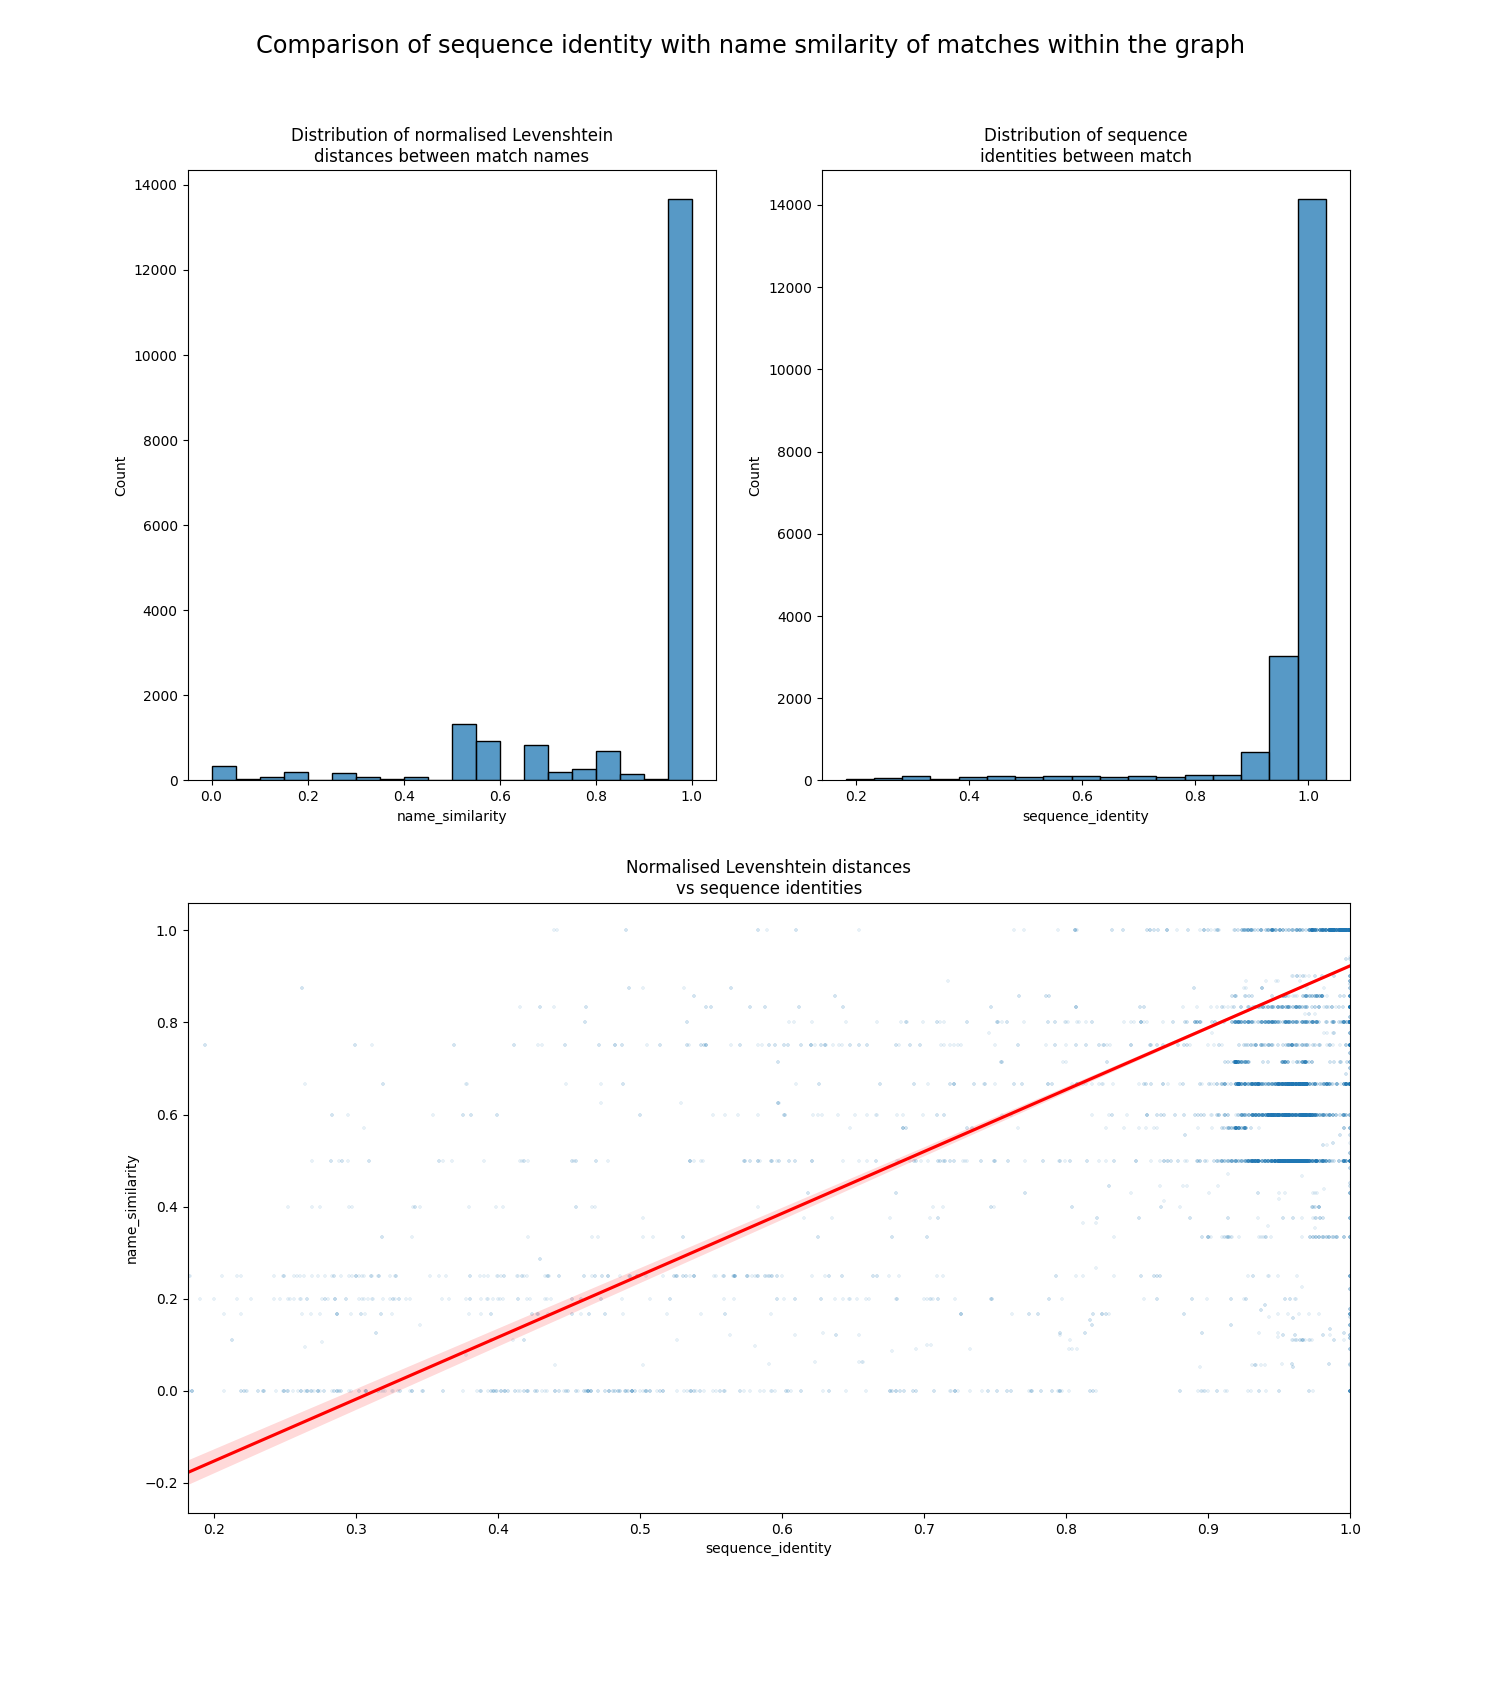
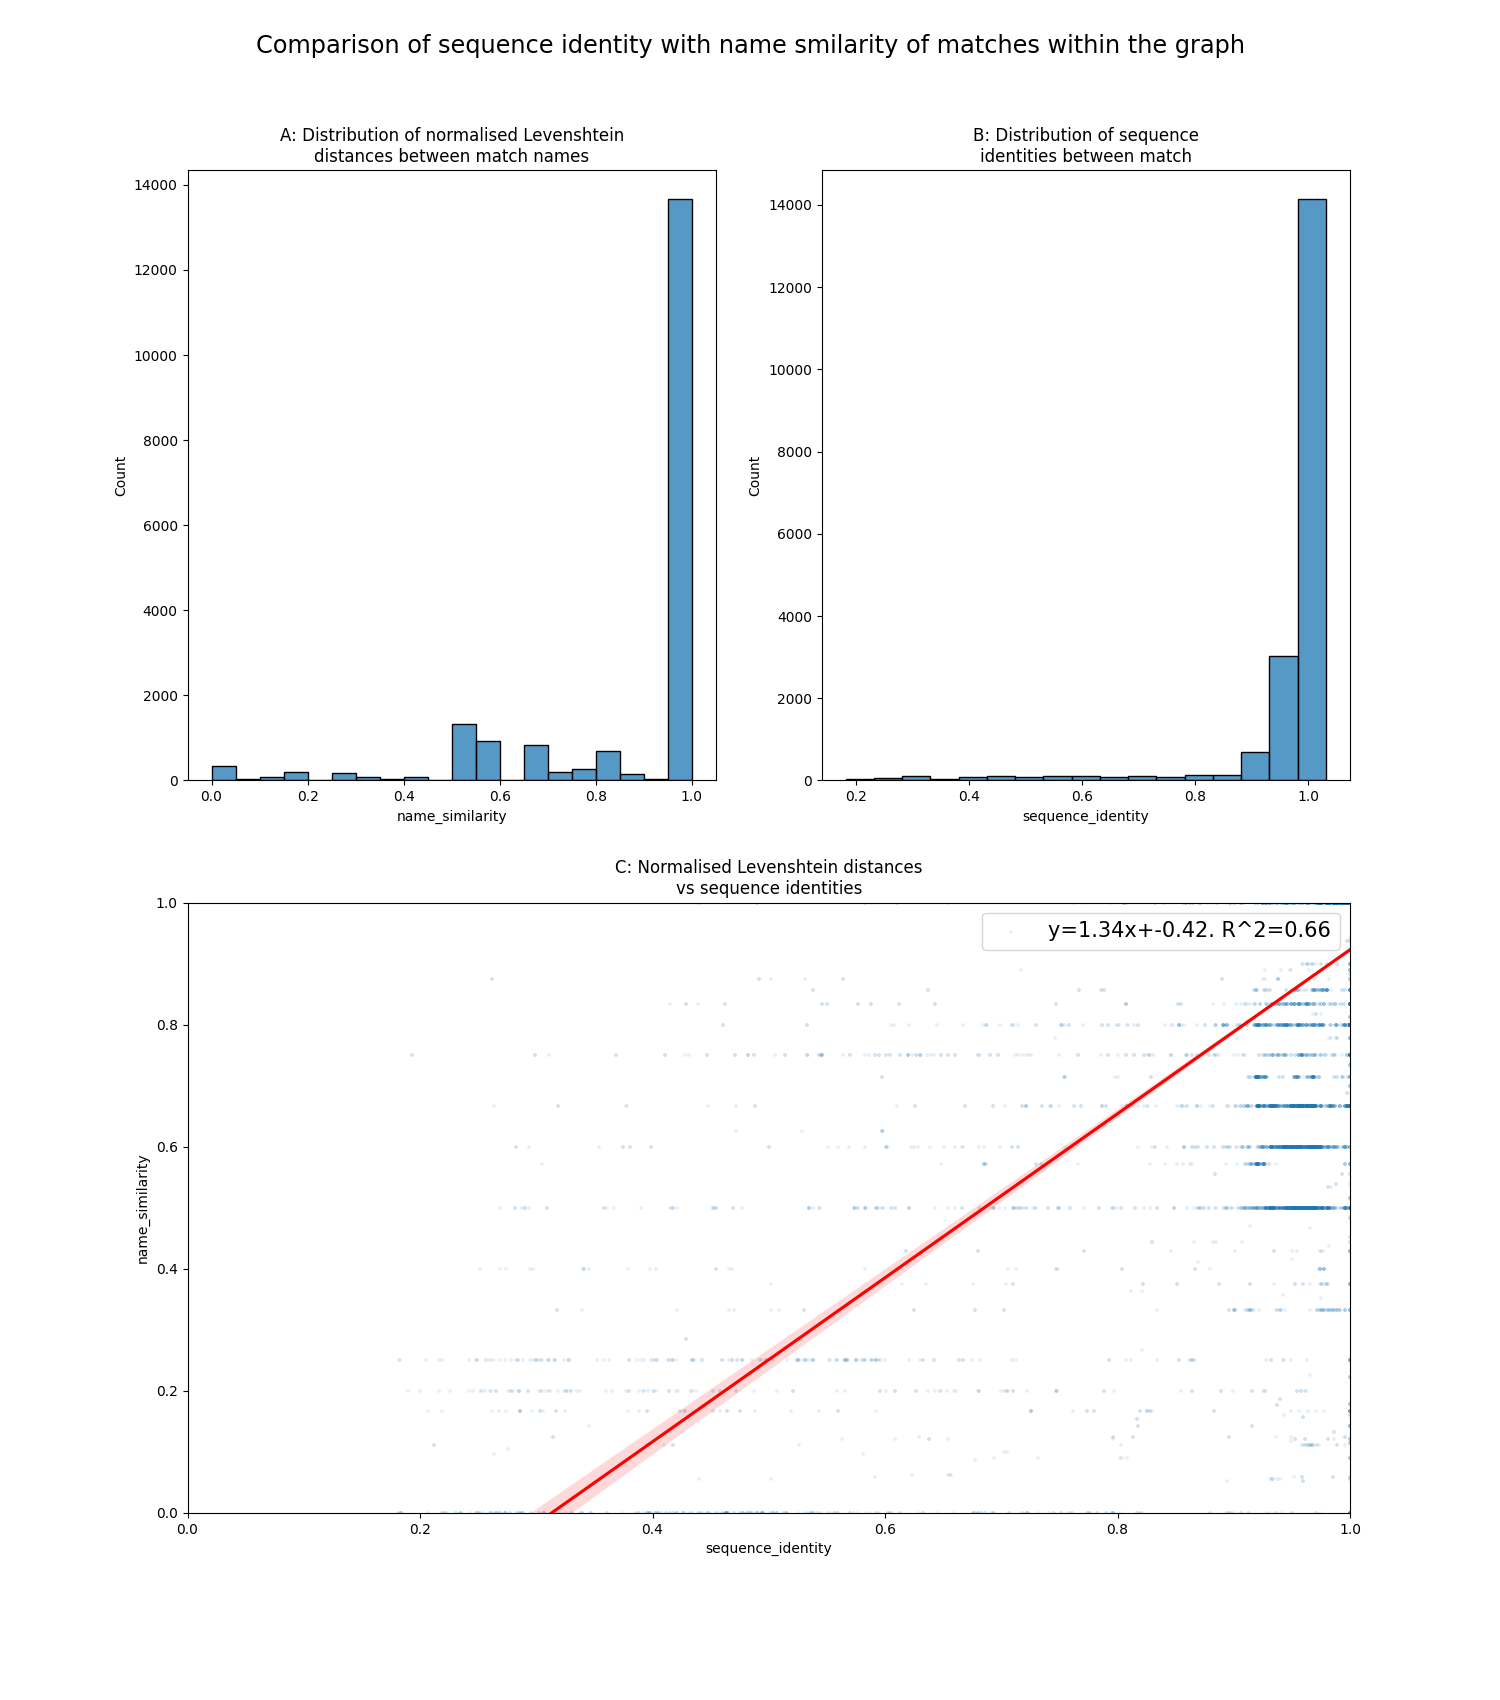
update README and plots

diff --git a/scripts/assess_matches.py b/scripts/assess_matches.py
@@ -1,6 +1,7 @@
 import os
 import json
 import re
+from scipy import stats
 
 import networkx as nx
 from networkx.readwrite import json_graph
@@ -209,7 +210,7 @@ fig.suptitle(
     fontsize='xx-large'
 )
 distance_distribution_plot_ax=plt.subplot2grid((2, 2), (0, 0), rowspan=1, colspan=1)
-distance_distribution_plot_ax.set_title('Distribution of normalised Levenshtein\ndistances between match names')
+distance_distribution_plot_ax.set_title('A: Distribution of normalised Levenshtein\ndistances between match names')
 
 distance_distribution_plot=sns.histplot(
     ax=distance_distribution_plot_ax,
@@ -219,7 +220,7 @@ distance_distribution_plot=sns.histplot(
 )
 
 identity_distribution_plot_ax=plt.subplot2grid((2, 2), (0, 1), rowspan=1, colspan=1)
-identity_distribution_plot_ax.set_title('Distribution of sequence\nidentities between match')
+identity_distribution_plot_ax.set_title('B: Distribution of sequence\nidentities between match')
 
 identity_distribution_plot=sns.histplot(
     ax=identity_distribution_plot_ax,
@@ -227,8 +228,12 @@ identity_distribution_plot=sns.histplot(
     data=distance_dataframe,
     binwidth=0.05
 )
+
+# get coeffs of linear fit
+slope, intercept, r_value, p_value, std_err = stats.linregress(distance_dataframe['sequence_identity'],distance_dataframe['name_similarity'])
+
 identity_vs_distance_plot_ax=plt.subplot2grid((2, 2), (1, 0), rowspan=1, colspan=2)
-identity_vs_distance_plot_ax.set_title('Normalised Levenshtein distances\nvs sequence identities')
+identity_vs_distance_plot_ax.set_title('C: Normalised Levenshtein distances\nvs sequence identities')
 
 identity_vs_distance_plot=sns.regplot(
     ax=identity_vs_distance_plot_ax,
@@ -236,8 +241,12 @@ identity_vs_distance_plot=sns.regplot(
     y="name_similarity",
     scatter_kws={"s": 10, 'alpha': 0.1},
     line_kws={"color": "red"},
+    label="y={0:.2f}x+{1:.2f}. R^2={2:.2f}".format(slope,intercept,r_value),
     data=distance_dataframe,
-    marker="+")
+    marker="+").legend(loc="best", fontsize=15)
+
+identity_vs_distance_plot_ax.set_xlim(0,1)
+identity_vs_distance_plot_ax.set_ylim(0,1)
 
 figure_path=os.path.join(
     os.path.dirname(os.path.abspath(__file__)),
@@ -254,7 +263,7 @@ fig.suptitle(
 )
 ########## violin plot 1 ###############
 name_similarity_plot_ax=plt.subplot2grid((2, 4), (0, 0), rowspan=1, colspan=2)
-name_similarity_plot_ax.set_title(f'Dist of name similarities including alleles\nfrom matches with >= 0.95 id')
+name_similarity_plot_ax.set_title(f'A: Dist of name similarities including alleles\nfrom matches with >= 0.95 id')
 
 sns.boxplot(
     ax=name_similarity_plot_ax,
@@ -273,7 +282,7 @@ sns.violinplot(
 
 ########## violin plot 2 ###############
 name_similarity_wo_alleles_plot_ax=plt.subplot2grid((2, 4), (0, 2), rowspan=1, colspan=2)
-name_similarity_wo_alleles_plot_ax.set_title(f'Dist of name similarities without alleles\nfrom matches with >= 0.95 id')
+name_similarity_wo_alleles_plot_ax.set_title(f'B: Dist of name similarities without alleles\nfrom matches with >= 0.95 id')
 
 sns.boxplot(
     ax=name_similarity_wo_alleles_plot_ax,
@@ -292,9 +301,9 @@ sns.violinplot(
 ########## violin plot 3 ###############
 similarity_difference_plot_ax=plt.subplot2grid((2, 4), (1, 0), rowspan=1, colspan=1)
 similarity_difference_plot_ax.set_title(
-f"""Dist of differences from linear regression
-predictions including alleles
-from matches with >= 0.95 id""")
+f"""C: Dist of differences from 
+linear regression predictions incl 
+alleles from matches with >= 0.95 id""")
 
 sns.boxplot(
     ax=similarity_difference_plot_ax,
@@ -314,8 +323,8 @@ sns.violinplot(
 ########## violin plot 4 ###############
 low_similarity_difference_plot_ax=plt.subplot2grid((2, 4), (1, 1), rowspan=1, colspan=1)
 low_similarity_difference_plot_ax.set_title(
-f"""Dist of differences from linear regression
-predictions including alleles from matches
+f"""D: Dist of differences from linear 
+regr. predictions incl. alleles from matches 
 with >= 0.95 id + name similarity <= {round(predicted_name_similarity,2)}""")
 
 sns.boxplot(
@@ -336,9 +345,9 @@ sns.violinplot(
 ########## violin plot 5 ###############
 similarity_difference_wo_alleles_plot_ax=plt.subplot2grid((2, 4), (1, 2), rowspan=1, colspan=1)
 similarity_difference_wo_alleles_plot_ax.set_title(
-f"""Dist of differences from linear regression
-predictions without alleles
-from matches with >= 0.95 id"""
+f"""E: Dist of differences from linear 
+regr. predictions without 
+alleles from matches with >= 0.95 id"""
 )
 
 sns.boxplot(
@@ -359,7 +368,7 @@ sns.violinplot(
 ########## violin plot 6 ###############
 low_similarity_difference_wo_alleles_plot_ax=plt.subplot2grid((2, 4), (1, 3), rowspan=1, colspan=1)
 low_similarity_difference_wo_alleles_plot_ax.set_title(
-f"""Dist of differences from linear regression
+f"""F: Dist of differences from linear regr.
 predictions without alleles from matches
 with >= 0.95 id + name similarity <= {round(predicted_name_similarity_without_alleles,2)}"""
 )

diff --git a/README.md b/README.md
@@ -1,43 +1,46 @@
-# CharmeDb 
+# CharmeDb
+
 ![CharmeDb](docs/images/CharmeDb.png)  
 (pronounced 'charmed' `/tʃɑː(r)md/`)
   
-
-
 Previously known as Project ![mAMRite](docs/images/mAMRite_small.png)  
 
 (Abandoned for obvious trademark issues and the fact that the joke may be lost on non-Brits)  
 
 ## Introduction
+
 This project originated from the dilema a scientist faces when choosing a database that stores antimicrobial resistance determinants. Multiple databases exist with comparative strengths and weaknesses. This project builds on the concepts of the [haAMRonization](https://github.com/pha4ge/hAMRonization) project aiming to aggeregate and combine the information contained within the metadata associated with each project. The problem is exacerbated by the fact that the equivalent antimicrobial resistance genes (ARGs) can be named differently in each database.
 
 The hypothesis for the project is as follows:  
- * given a match in one database
- * find the matches in other databases
- * aggregate the combined desriptive information pertaining to antimicrobial resistance contained in the union of the metadata
- * report this to user for them to make intelligent informed choices
+
+* given a match in one database
+* find the matches in other databases
+* aggregate the combined desriptive information pertaining to antimicrobial resistance contained in the union of the metadata
+* report this to user for them to make intelligent informed choices
 
 ## Methodology
- * Download sequences and associated metadata of ARGs from 3 databases
-   * [CARD](https://card.mcmaster.ca/) ([Manuscript](http://www.ncbi.nlm.nih.gov/pubmed/31665441))
-   * [NCBI AMR Reference Gene Catalog](https://www.ncbi.nlm.nih.gov/pathogens/refgene/) 
-   * [Resfinder 4](https://bitbucket.org/genomicepidemiology/resfinder/src/4.0/) ([Manuscipt](https://academic.oup.com/jac/article/75/12/3491/5890997))  
+
+* Download sequences and associated metadata of ARGs from 3 databases
+  * [CARD](https://card.mcmaster.ca/) ([Manuscript](http://www.ncbi.nlm.nih.gov/pubmed/31665441))
+  * [NCBI AMR Reference Gene Catalog](https://www.ncbi.nlm.nih.gov/pathogens/refgene/)
+  * [Resfinder 4](https://bitbucket.org/genomicepidemiology/resfinder/src/4.0/) ([Manuscipt](https://academic.oup.com/jac/article/75/12/3491/5890997))  
    Details can be found in the [appendices](/docs/appendices.md#data-download)
- * Parse the data to
-   * extract the protein sequences and write into fasta format with the gene identifiers as the record ids.
-   * extract the associated metadata and convert to a consistent `JSON` format  
+* Parse the data to
+  * extract the protein sequences and write into fasta format with the gene identifiers as the record ids.
+  * extract the associated metadata and convert to a consistent `JSON` format  
    Details can be found in the [appendices](/docs/appendices.md#data-parsing)
- * Find best matches of each gene from one source database against the other two target databases
-   * Where a reciprocal best hit (RBH) exists, report this.  
+* Find best matches of each gene from one source database against the other two target databases
+  * Where a reciprocal best hit (RBH) exists, report this.  
      Details can be found in the [appendices](/docs/appendices.md#analyse-for-reciprocal-best-hits-rbhs).  
      A summary of the results can be found [here](/docs/appendices.md#summary-of-rbh-analysis)
-   * If a RBH does not exist, report the best match as long as thresholds for coverage and indentity are met.   
+  * If a RBH does not exist, report the best match as long as thresholds for coverage and indentity are met.
     A summary of the results can be found [here](/docs/appendices.md#summary-of-non-rbh-searches)
   
   For this purpose the [MMseqs2](https://pubmed.ncbi.nlm.nih.gov/29035372/) search tool was used that in its most sensitive mode is 100x faster than blastp and almost as sensitive. In a [comparative manuscript](https://pubmed.ncbi.nlm.nih.gov/33099302/) demonstrated that even in the worst cases mmseqs would not miss more than 10% of the RBH produced by blastp. MMseqs2 also contains a convenient wrapper to perform the all-by-all search necessary to find RBHs.
+
 * From the outputs of the MMseqs2 searches the RBHs or best matches of each gene from one database against the other two databases can be parsed to produce a `Directed Graph`. This netowrk was constructed using the [networkx](https://networkx.org/) python package.  
   Details of the method can be found [here](docs/appendices.md#building-a-networkx-graph)  
-  In this graph 
+  In this graph
   * the nodes represent a protein from one database
     * Node attributes contain the phenotype from the JSON metadata
   * the edges link nodes and represent the matches and attributes include
@@ -45,28 +48,35 @@ The hypothesis for the project is as follows:
     * coverage (alignment length/query length)
     * identity (percent identity of match)  
   See the image below for a pictoral example using made up data  
-  ![network diagram](docs/images/chamredb_network.png) 
+
+
+\
+\
+![network diagram](docs/images/chamredb_network.png)
 
 ## Assessing the graph
+
 In order to look at the 19132 matches within the database and assess the affetciveness of the methodology the database names for matches were compared with the [Normalized Levensthein algorithm](https://devopedia.org/levenshtein-distance#qst-ans-3).
 Before calculating the name similarity between the source and target of a match the name was cleaned using the following steps
+
 1. Removing species names from database names (exclusively in the CARD database) e.g `Staphylococcus aureus mupB conferring resistance to mupirocin`
 2. Coversion to lower case
 3. Removing the bla prefix
 4. Removing parentheses
 5. Removing hyphens
 
-N.B blaPAO-N and blaPDC matches are the source of 562 low name similarities so were skipped
+_N.B blaPAO-N and blaPDC matches are the source of 562 low name similarities so were skipped_
 
 The resulting data is plotted below showing
-a) distribution of levenshtein smilarities between the database names of the best matches
-b) distribution sequence identities for the best matches
-c) plot of the levenshtein smilarity versus the sequence identity for each match
-![analysis plots](scripts/seq_id_and_name_sim_analysis.png)
+A: distribution of levenshtein smilarities between the database names of the best matches
+B: distribution sequence identities for the best matches
+C: plot of the levenshtein smilarity versus the sequence identity for each match  
+
+![analysis plots](scripts/seq_id_and_name_sim_analysis.png)  
+
 The red line shows the correlation including 95% confidence intervals.
-A second plot shows 
-a) A violin plot showing the distribution of the name similarity differences for those matches where the sequence identity is greater than 0.95.
-[Data](scripts/low_name_similarity.csv) for matches where the sequence identity is > than 0.95 and the name similarity is less than the predicted value based on a linear regression model of 0.69 was created.
+
+Based on this regression the expected name similarity for a sequence identity of 0.95 can be calculated (0.69)
 
 ```
 linear_fit = np.polyfit(
@@ -77,17 +87,32 @@ linear_fit = np.polyfit(
 np.polyval(linear_fit, 0.95)
 0.6898250936869554
 ```
+To examine data for matches where the sequence identity is > than 0.95 **BUT** the name similarity is less than the predicted 0.69 was created and explored, a [CSV file](scripts/low_name_similarity.csv) was created.
+
 In this data, many of the differences in the name are due to matches with the same gene family but different alleles e.g `blaADC-125` in the `ncbi` database and `blaADC-25` in the `resfinder 4` database.  
-Data for this where sequence identity is > than 0.95 and the name similarity is less than the predicted value based on a linear regression model of 0.86 was created [here](scripts/low_name_similarity_without_alleles.csv). The right hand panel(s) shows data where these allelic differences have been removed.  
-Some of these are clearly relate genes but the databases have different nomneclature e.g  
-`vanA` in `card` and `VanHAX` in `resfinder 4.0` or  
-`catA15` in `ncbi` or `Clostridium butyricum catB` in `card` **N.B** The species names are removed in the name cleaning function.  
-In other cases the names are completely different, e.g  
-`gimA` in `card` and `mgt`  in `ncbi` but the sequences are 99.5% identical. `gimA` is a macrolide glycosyltransferase and may confer resistance to spiramycin. `mgt` in the `ncbi` database stands for `macrolide-inactivating glycosyltransferase`. Clearly the genes are likley to have the same function but have been assigned different names in the two databases.
-b) The lower section of the figure contains violin plots showing the distribution of the difference between the observed name similarity and that predicted by a linear regression model fitting name smilarity to sequence identity.
+Therefore data calculating name smilarities ignoring alleles was created.
+
+
+A second series of plots explores this data by plotting the distributions of the name smilarities.
+In the top panel the violin plots show the distribution of the name similarity differences for those matches where the sequence identity is greater than 0.95. In A: this name similarities are based on complete cleaned locus names and in B: they are based on names where the alleles are ignored. 
+The lower panel of the figure contains violin plots showing the distribution of the **difference** between the **observed name similarity** and that **predicted** by a linear regression model fitting name smilarity to sequence identity. The right hand 2 plots are data where the name simialrities were calculated excluding alleles.
 ![analysis plots](scripts/name_similarity_distribution_analysis.png)
 
+The data was filtered for those matches where the sequence identity is > than 0.95 but the name similarity is less than the predicted value of 0.86 based on the linear regression model. 
+
+To examine these anomalous results a [CSV sheet](scripts/low_name_similarity_without_alleles.csv) was created.  
+
+Exploring this data some of these are clearly related genes but the databases have different nomneclature e.g  
+`vanA` in `card` and `VanHAX` in `resfinder 4.0` or  
+`catA15` in `ncbi` or `Clostridium butyricum catB` in `card`
+
+_**N.B** The species names are removed in the name cleaning function._  
+
+In other cases the names are completely different, e.g  
+`gimA` in `card` and `mgt`  in `ncbi` but the sequences are 99.5% identical. `gimA` is a macrolide glycosyltransferase and may confer resistance to spiramycin. `mgt` in the `ncbi` database stands for `macrolide-inactivating glycosyltransferase`. Clearly the genes are likley to have the same function but have been assigned different names in the two databases.
+
 ## Querying the graph
+
 ```
 usage: chamredb query
   [-h]
@@ -96,38 +121,51 @@ usage: chamredb query
   (-i ID | -f ID_FILE | -j HAMRONIZATION_JSON_FILE)
   [-o OUTFILE_PATH]
 ```
+
 The graph can be queried in one of 3 ways  
+
 ### 1. Querying an individual
+
 Requires specifying the identifier `-i` and database `-d`  
+
 ```
 chamredb query -d ncbi -i WP_012695489.1 
 ```
+
 Alternatively the gene name can be used
+
 ```
 chamredb query -d ncbi -i qnrB2
 ```
+
 The output reports the matches and metadata from the other databases  
 ![qnrB2](/docs/images/qnrB2.png)
 
 Another example where the matches are one way hits not RBHs
+
 ```
 chamredb query -d resfinder -i "aac(3)-IIIb"
 ```
+
 ![aac(3)-IIIb](/docs/images/aac(3)-IIIb.png)
 In these outputs ↔ means a RBH, and ➡ a search hit
 
 ### 2. Providing a list of identifiers from a single database
+
 Requires specifying the database `-d`, the text file containing the ids `-f`, and a path for the tsv output file `-o`  
 
 ```
 chamredb query -d card -f docs/data/card_ids.txt  -o docs/data/card_ids.tsv
 ```
+
 This will produce a [TSV file](/docs/data/card_ids.tsv) containing the matches and associated metadata with one row per id in the text file
+
 ### 3. Use hAMRonization summary output
+
 Use the [hAMRonization softare](https://github.com/pha4ge/hAMRonization) to convert the outputs from an antimicrobial resistance gene detection tools into a unified format. Concatenate and summarize AMR detection reports into a single summary JSON file using the `hamronize summarize` command from this package. The JSON output from this step can be used to query ChamreDb.  
 Use `-j` to specify the json summary file and `-o` the path for the TSV output  
 **Please Note**  
-Only outputs using data derived from AMR detection tools that have searched either the `CARD`, `NCBI` or `Resfinder 4 ` databases can be used.
+Only outputs using data derived from AMR detection tools that have searched either the `CARD`, `NCBI` or `Resfinder 4` databases can be used.
 
 ```
 chamredb query -j docs/data/hamronize_summary.json -o docs/data/hamronize_summary.tsv